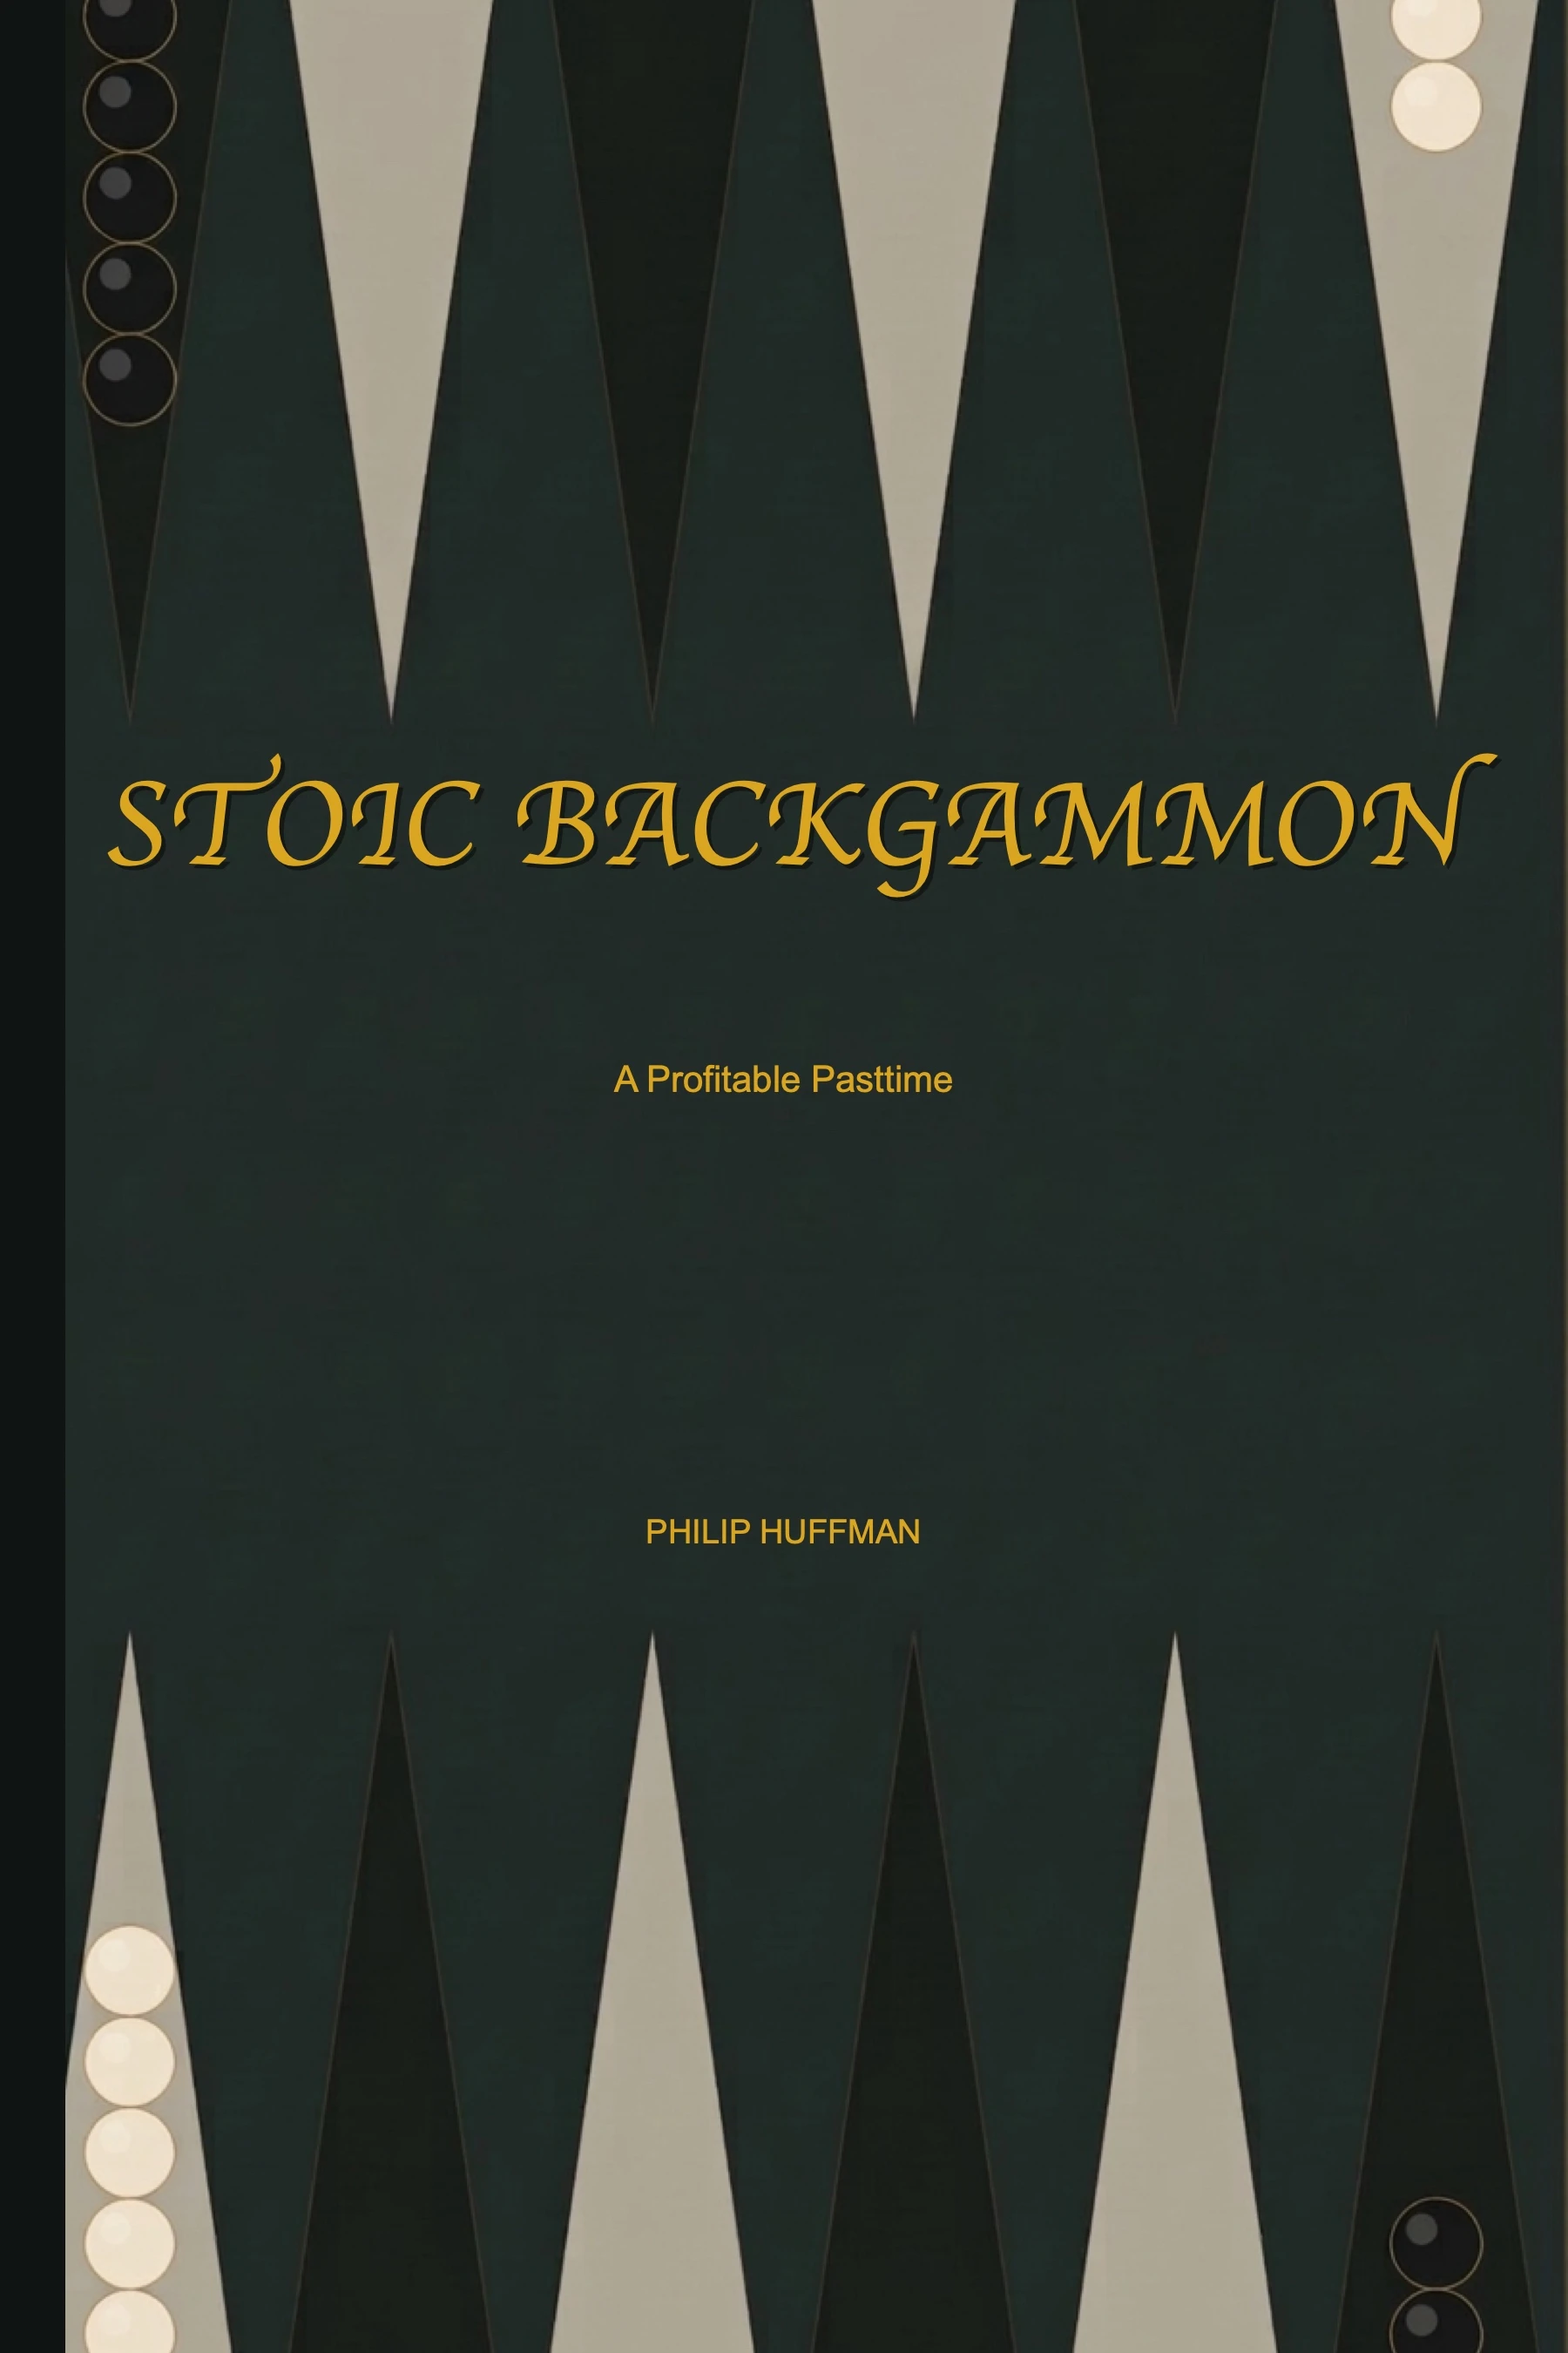
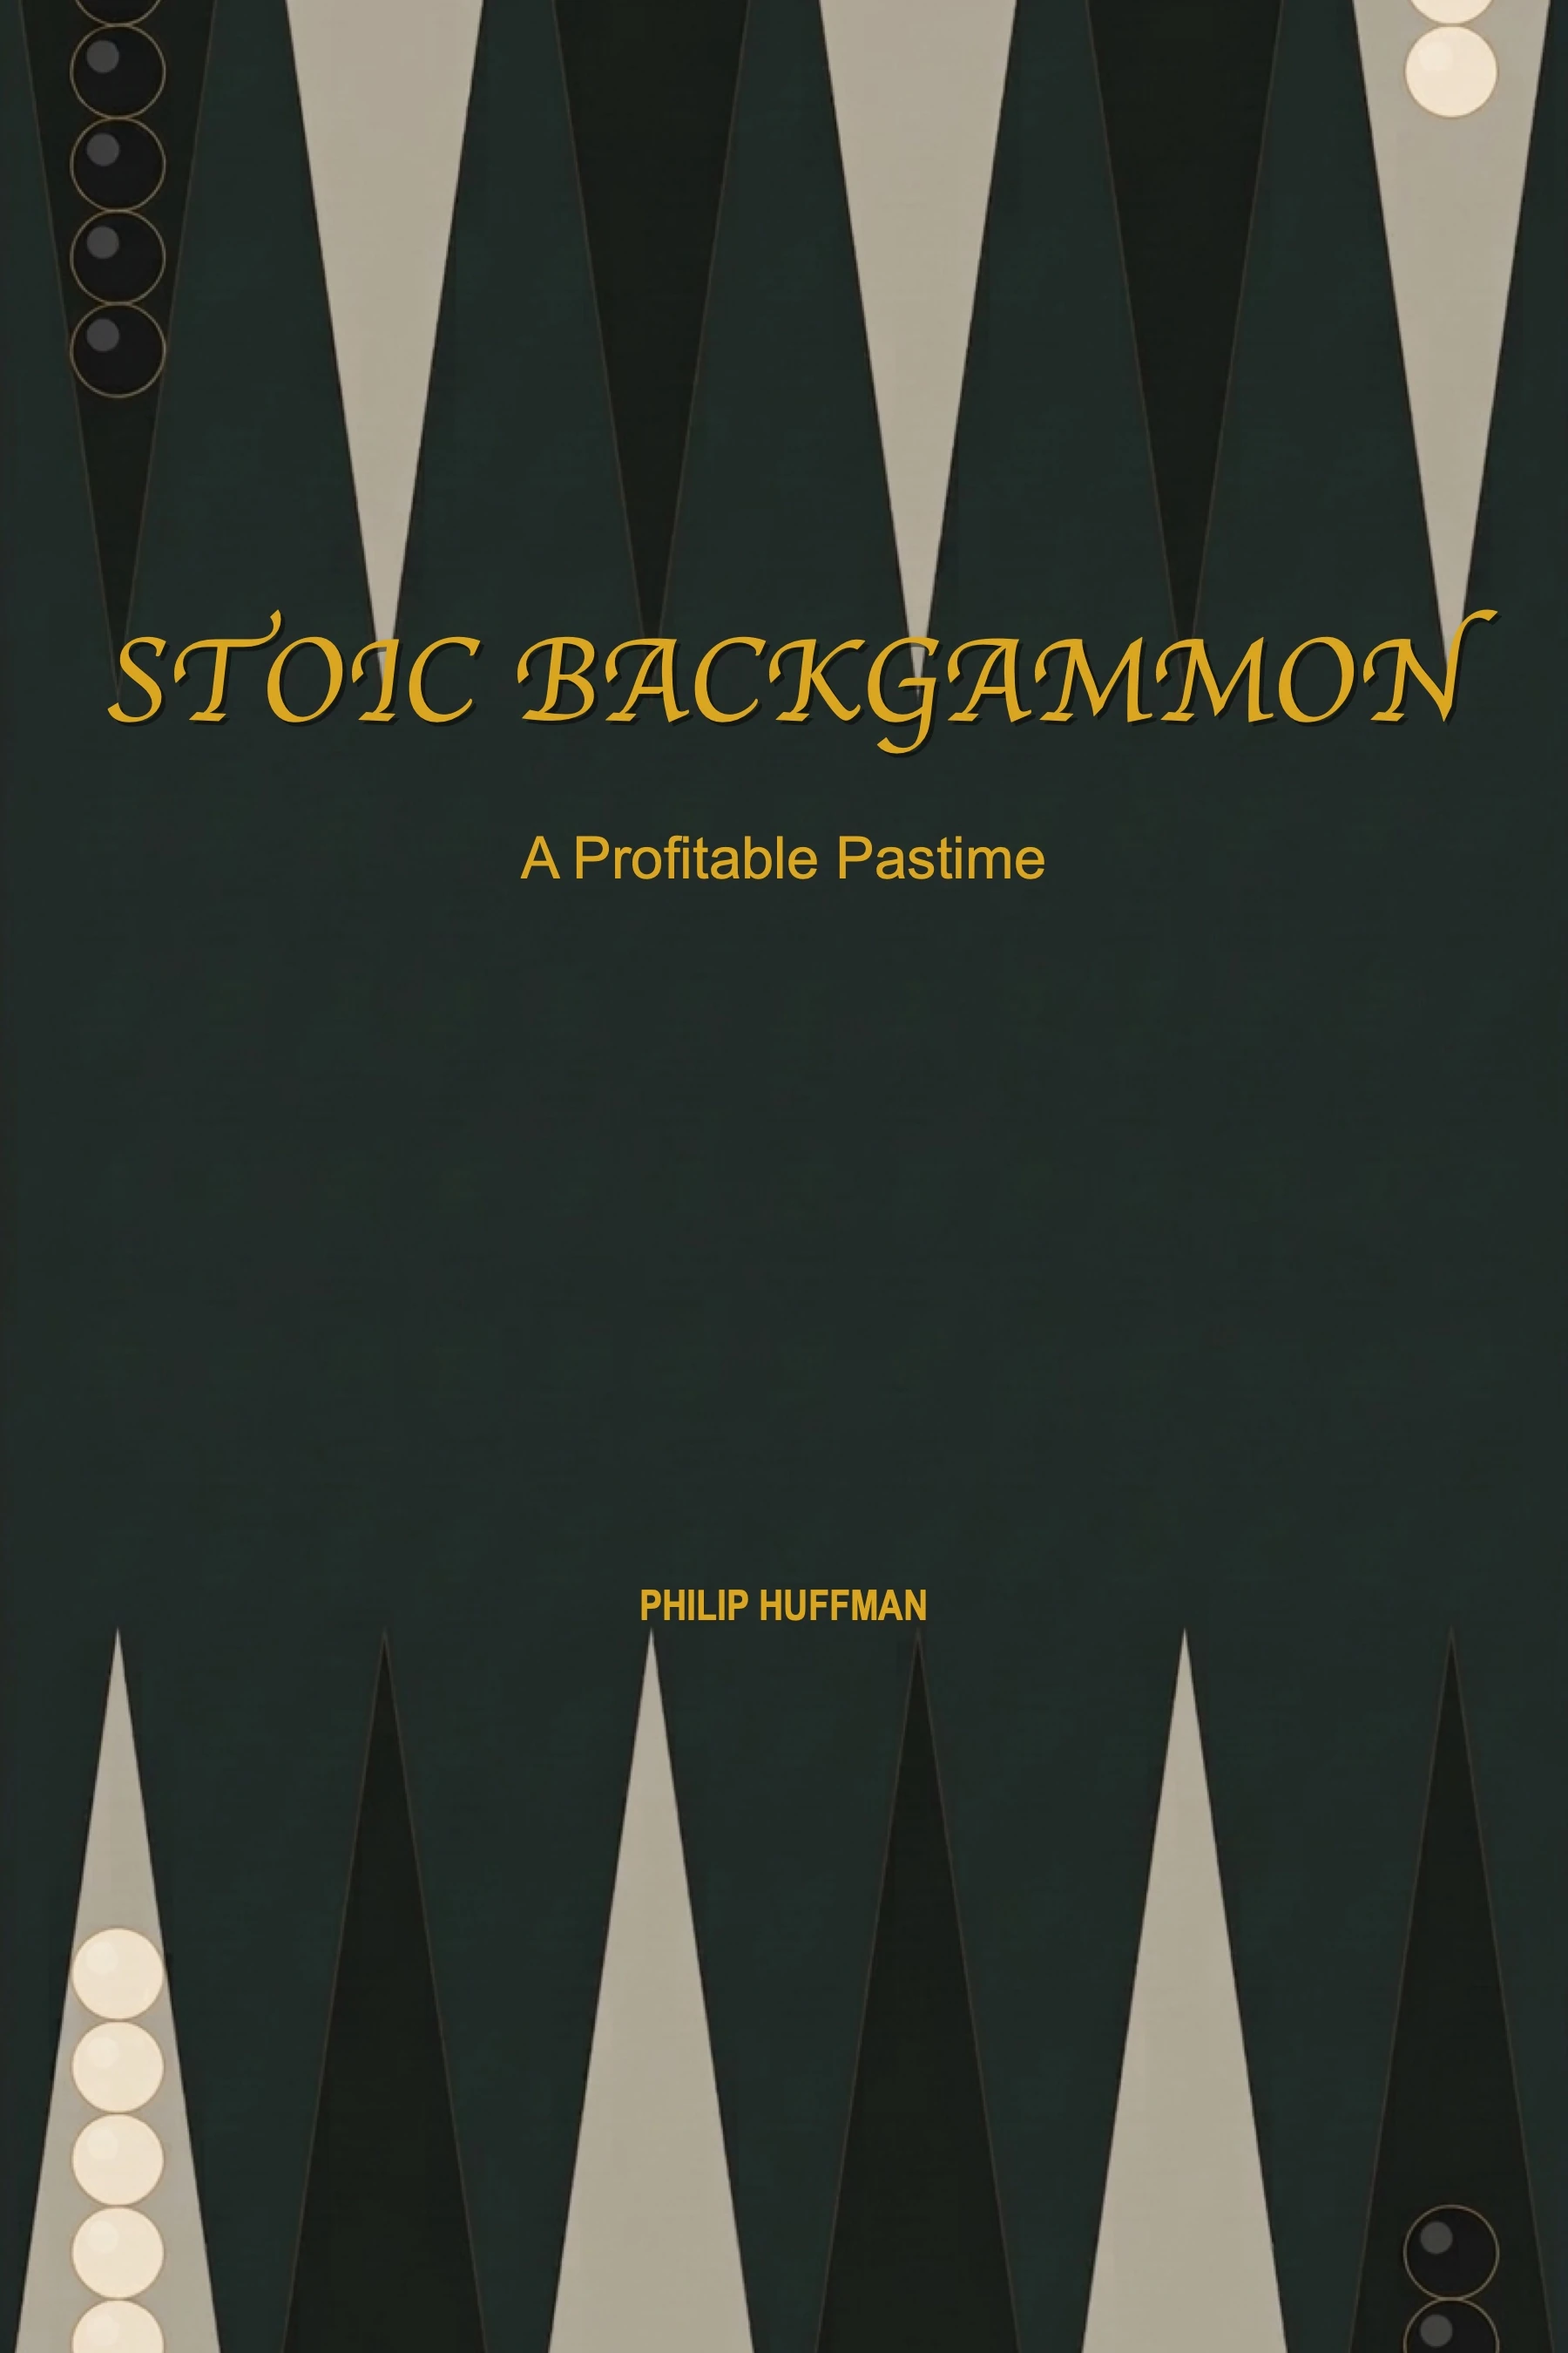
Remove the letterbox band from the Stoic Backgammon cover

diff --git a/SESSION_STATE.md b/SESSION_STATE.md
@@ -16,10 +16,11 @@
 
 Philip, 2026-10-25: "I've changed the cover for 'Unstuck.' Freshen up the image on the site." The renders in `LaTeX/AllMyBooks/unstuck/cover/` were rebuilt at 06:27 (HC) and 06:35 (PB) that morning; the front art is the same door-and-figure plate, redrawn with the title inside the doorway.
 - **The site cover was replaced, not added.** `assets/img/books/unstuck.jpg` is now the generator's own PB front-cover export, `pb-unstuck.jpg`, copied byte-for-byte: 1800×2700 (exact 2:3), 1.14 MB, up from the old 1919×2771 HC export because the new render carries finer art. Frontmatter is unchanged: every surface reads this one path — the book page (`img.html`, 800 px webp), the `/books/` hub card, the home Library grid, the `all-my-books` catalog, and both `og:image` and the Book schema, which now report 1800×2700.
-- **The gold strip along the left edge is the branding, and it stays.** The first pass cropped it out at the spine seam, reading it as leftover wrap; Philip, 2026-10-25: "I want those strips. That feature is part of the branding." He is right and the measurement says so: every cover in `assets/img/books/` carries a left spine strip (`almw.jpg`, `letters.jpg`, `misaligned.jpg`, `proportion.jpg` 120 px of 1918; `raisem-right.jpg`, `stoic-citizen.jpg`, `tsc.jpg` 119 px of 2039; `stoic-cgm.jpg` 90 px of 1947; `stoic-backgammon.jpg` 75 px of 1800). **Do not crop a spine strip off a book cover** — the strip is what makes the covers a set, and `object-fit: contain` renders it as a band rather than hiding it.
+- **The gold strip along the left edge is the branding, and it stays.** The first pass cropped it out at the spine seam, reading it as leftover wrap; Philip, 2026-10-25: "I want those strips. That feature is part of the branding." He is right and the measurement says so: every cover in `assets/img/books/` carries a left spine strip (`almw.jpg`, `letters.jpg`, `misaligned.jpg`, `proportion.jpg` 120 px of 1918; `raisem-right.jpg`, `stoic-citizen.jpg`, `tsc.jpg` 119 px of 2039; `stoic-cgm.jpg` 90 px of 1947). **Stoic Backgammon is the exception and must stay one** — see the next bullet. **Do not crop a spine strip off a book cover** — the strip is what makes the covers a set, and `object-fit: contain` renders it as a band rather than hiding it.
 - **The strip has one control: `spine_color_extension_inches` in `cover/cover.md`.** It is measured from the spine fold and drawn over the front panel by `drawSpine`, which fills `spineWidth + extension`; for a paperback, `hinge_inches` is 0 and the fold is the panel edge, so the setting *is* the visible strip. The other books set `0.40`, and that number is not aesthetic: they are hardcovers, KDP's hinge is `hinge_inches: 0.394`, and the band is exactly the hinge.
 - **Unstuck is set to one third of an inch, decided 2026-10-25.** The cover was first shipped at the project's old `0.25`, which measured 75 px and read as a hairline beside the eight `0.40` covers at card size (5 px of a 120 px card against their 8 px). Philip, shown 0.25 / 0.333 / 0.40 rendered from the same project and asked what to suggest: "I'll go with 1/3." Set to `3.333334e-1`, which renders 99 px in the front crop (0.33 in, 6.7 px at card size) — near the set's 0.394 hinge without reaching it, and short of the width where the band starts to read as a frame at page size. `pb-unstuck.pdf`, `pb-unstuck.png` and `pb-unstuck.jpg` were regenerated with `CoverStudio render . --bind pb`, and the hardcover set in a second pass (`--bind hc`) after Philip asked for the change to land on a clean tree — book-repo commits `3f80448` (his `cover.md` edits and the PB renders), `63a5706` (the existing HC renders, as the baseline) and `b4a96fd` (HC re-rendered at 1/3; 74 px → 99 px). Changing this field moves the **printed** wrap as well as the site image, which is why it is not a site-only edit.
 - **The band is a front-cover device on the paperback and a hinge device on the hardcover, and the difference is deliberate.** Measured from `inspect` and a `--guides` render: the PB panel is trim 6.0 + 0.125 bleed with `hinge_inches: 0`, so its 1/3 in lands on the visible front face; the HC panel is trim 6.0 + hinge 0.394 + wrap 0.394, so the same 1/3 in sits wholly inside the fold, 19 px short of the trim face, and the printed hardcover shows no band at all. The other eight books are hardcovers at 0.40, which ends 2 px past their fold — **their site cards show the hinge region, not something a reader sees on the shelf**, so Unstuck is not breaking a pattern. Philip, 2026-10-25, offered 1/3 as-is, 0.394, or a per-binding split: "Nothing will be changed." Do not set 0.394 "to match the set": it puts no band on the HC face and only widens the PB. A band on the printed hardcover would need `0.394 + 0.333 = 0.727` plus a per-binding `spine_color_extension_inches` (the `bindingDoubleOrDefault` path in `CoverData`), which nobody has asked for.
+- **Stoic Backgammon carries no strip, and that is a requirement.** Philip, 2026-10-25: "Stoic Backgammon should not have a stripe. That cover is unique and a stripe would be problematic." Its site cover did have one — a 75 px flat band at the left edge — and it was **not** `spine_color_extension_inches`. Measured on 2026-10-25: setting the extension to 0 changed the rendered wrap by a 2 px line, so the band came from `front_image_fit: fit` in `LaTeX/AllMyBooks/backgammon/cover/cover.md`, which letterboxes the art and fills the leftover panel with the spine colour (`Renderer.drawFrontImage`, `.fit` branch: "Letterbox bands use the spine color"). Corrected in that project to `front_image_fit: auto` (source 816×1306 is within 15% of the panel, so auto resolves to cover, no stretch) and `spine_color_extension_inches: 0`, then both bindings were re-rendered; book-repo commit `6bc1aa8`. `assets/img/books/stoic-backgammon.jpg` and its `.webp` twin were both replaced from the new `pb-SB.jpg` — both files exist and the `book` shortcode prefers the webp, so updating one would have left the site serving the old art.
 - **Verified:** `hugo --gc --minify` builds 515 pages; the rendered cover was checked on the book page, the hub, home, and the catalog in a browser, not by file-existence alone. `check-hero-paths.py` (coverage: 381 paths) and `check-content-frontmatter.py` (264 files) both OK. The article hero (`Unstuck-16x9.webp` / `Unstuck-4x5.webp`) is separate art — the Marcus bust — and was left alone; `image_alt` still describes the plate.
 
 ---
